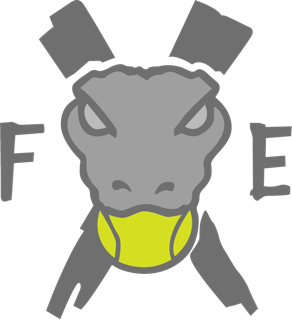
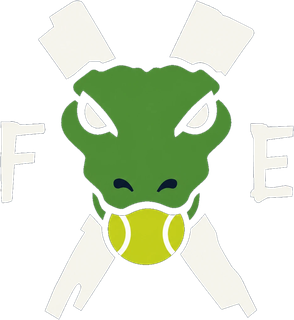
The gator in colour, everywhere, from one source file (decision 0032)
Tara asked for the gator in colour before testers get a build. Alex sent
the artwork; it is committed as docs/brand/gator-2026-09-29.webp and
scripts/make-logo-assets.py writes every copy from it: the app icon (no
alpha, as App Store Connect requires), the in-app mark for the launch
screen and header (navy lifted out by a flood fill from the border), and
two web files: the cut-out for navy pages and a rounded tile for the
light QR card, where cream racquets would vanish.

Checked on the simulator (header, app-switcher icon) and in the browser
(qr.html, app/index.html).

diff --git a/web/qr.html b/web/qr.html
@@ -40,7 +40,7 @@
 </head>
 <body>
   <div class="card">
-    <img class="mark" src="gator.png" alt="">
+    <img class="mark" src="gator-tile.png" alt="">
     <h1>FXE Tennis</h1>
     <img class="qr" src="app-qr.svg" alt="QR code for fxe-tennis-admin.vercel.app/app">
     <div class="url">fxe-tennis-admin.vercel.app/app</div>

diff --git a/scripts/make-logo-assets.py b/scripts/make-logo-assets.py
@@ -1,0 +1,82 @@
+#!/usr/bin/env python3
+"""make-logo-assets.py: every copy of the gator mark, from one source file.
+
+The source is the artwork Tara approved, as Alex sent it (2026-09-29, decision
+0032): the gator in colour on its own navy square. Four files come out of it,
+and nothing else in the repo should be edited by hand to change the logo:
+
+  AppIcon-1024.png   the square as is, RGB with no alpha (App Store Connect
+                     rejects an icon with an alpha channel, ITMS-90717)
+  gator-x.png        the mark with the navy lifted out, for navy surfaces in
+                     the app (launch screen, header)
+  web/gator.png      the same cut-out, smaller, for navy pages on the web
+  web/gator-tile.png the square with rounded corners, for light pages (the QR
+                     card), where the cream racquets would vanish on cream
+
+The cut-out is a flood fill from the border: only navy connected to the edge
+goes, so the dark outlines inside the gator (eyes, nostrils) stay. The outer
+outline goes with the background, which on a navy surface looks the same.
+
+  python3 scripts/make-logo-assets.py [source]
+"""
+import sys
+from collections import deque
+from pathlib import Path
+from PIL import Image, ImageDraw, ImageFilter
+
+ROOT = Path(__file__).resolve().parent.parent
+SRC = Path(sys.argv[1]) if len(sys.argv) > 1 else ROOT / "docs/brand/gator-2026-09-29.webp"
+ASSETS = ROOT / "FXETennis/Resources/Assets.xcassets"
+TOL = 60  # colour distance still counted as background navy
+
+im = Image.open(SRC).convert("RGB")
+w, h = im.size
+px = im.load()
+bg = px[5, 5]
+
+def near(c):
+    return sum((a - b) ** 2 for a, b in zip(c, bg)) <= TOL * TOL
+
+mask = Image.new("L", (w, h), 255)
+m = mask.load()
+seen = bytearray(w * h)
+q = deque()
+for x in range(w):
+    q.extend([(x, 0), (x, h - 1)])
+for y in range(h):
+    q.extend([(0, y), (w - 1, y)])
+while q:
+    x, y = q.popleft()
+    i = y * w + x
+    if seen[i]:
+        continue
+    seen[i] = 1
+    if not near(px[x, y]):
+        continue
+    m[x, y] = 0
+    for nx, ny in ((x + 1, y), (x - 1, y), (x, y + 1), (x, y - 1)):
+        if 0 <= nx < w and 0 <= ny < h and not seen[ny * w + nx]:
+            q.append((nx, ny))
+# Soften the cut by a pixel so the edge is not stair-stepped when scaled.
+mask = mask.filter(ImageFilter.GaussianBlur(0.8))
+
+cut = im.convert("RGBA")
+cut.putalpha(mask)
+cut = cut.crop(cut.getbbox())
+
+# 1. App icon.
+im.resize((1024, 1024), Image.LANCZOS).save(ASSETS / "AppIcon.appiconset/AppIcon-1024.png")
+# 2. In-app mark, about the old asset's size.
+cw, ch = cut.size
+s = 1067 / ch
+cut.resize((round(cw * s), 1067), Image.LANCZOS).save(ASSETS / "gator-x.imageset/gator-x.png")
+# 3. Web cut-out.
+s = 320 / ch
+cut.resize((round(cw * s), 320), Image.LANCZOS).save(ROOT / "web/gator.png")
+# 4. Web tile, rounded like an app icon.
+tile = im.resize((320, 320), Image.LANCZOS).convert("RGBA")
+r = Image.new("L", (320 * 4, 320 * 4), 0)
+ImageDraw.Draw(r).rounded_rectangle((0, 0, 320 * 4 - 1, 320 * 4 - 1), radius=72 * 4, fill=255)
+tile.putalpha(r.resize((320, 320), Image.LANCZOS))
+tile.save(ROOT / "web/gator-tile.png")
+print("wrote 4 files from", SRC.relative_to(ROOT) if SRC.is_relative_to(ROOT) else SRC)

diff --git a/docs/prompt-log/2026-09.md b/docs/prompt-log/2026-09.md
@@ -4487,3 +4487,64 @@ I do ask the gator is changed in color first :)
 
 ok anyway i havent read anything u gave me and ill prob do the stripe stuff later today, so go back to all my out standing to dos pls
 ~~~~
+
+### Claude replied · 11:41:10 EDT
+
+~~~~text
+Done with everything I could do without you. Build 6 went live on the database, and its PR is waiting on CI.
+
+**What I did since your last message**
+- **The pop-up waiver is now a full screen.** New players sign it before they see anything else. An automated test proves nothing of Home exists behind it: it failed on the old pop-up and passes now.
+- **"Couldn't save your signature":** no sign-in has reached the live database since 09-24, and every member there has signed. So you almost certainly hit it on the simulator, while I was wiping and rebuilding the local test database under you. It now says the real reason instead of that vague line.
+- **Foxcroft share:** Tara's number, set on the Money tab. It stays 10% until she types what's agreed (8, 7.5, anything), and only she can see it. The math is checked against numbers I worked out by hand.
+- **QR scan counting (Kat):** built. Tara sees "opened 12 times, 9 by scanning" beside the QR link. It stores only a date and a count, nothing about the person.
+- **Court sheet:** "Court 1" printed as "Court ı" in the fancy font. Fixed.
+- **UI tests that failed around 1 AM:** they depended on the time of night. Fixed, and they now pass during that window.
+- **Build 6 on the live database:** 60 of 60 migrations paired, six server functions deployed, live security check `156 targets, 0 open`. The PR ([Volee-Team/FXE#81](https://github.com/Volee-Team/FXE/pull/81)) merges once the last check reruns; it only failed because it ran before the database push. Then I tag it for John.
+- **New demo for Kat and Tara:** https://claude.ai/artifact/9i4Wmg1Eb1wsrBybuiyP3E (private until you share it from its Share menu, so share it before sending). It covers the waiver screen, the pros' Today screen, the calendar, Copy to next week, the court sheet, Foxcroft %, saved messages, and Kat's three answers.
+
+**Your questions**
+1. **Tara's answers:** nothing new was saved on her review page after round four, and round four is all recorded (decision 0024). If she answered anything else by text, paste it here and I'll check it against what's built. Her Foxcroft answer became question 101.
+2. **Her screenshot feedback:** it goes to whoever uploaded the build, so it's in John's App Store Connect: Apps → FXE Tennis → TestFlight → Feedback. Ask John to forward it, or to add you to his team with the App Manager role.
+3. **Kat's "0/8":** that screenshot is Tara's Manage tab, which only she sees. Players never get a count of anything. The database refuses to send one, and a test checks it on every build.
+4. **Downloads by date:** App Store Connect → Analytics shows daily downloads once the app is on the App Store. TestFlight only shows installs per tester.
+5. **Photo and gator color:** I've never received the photo, and I can't read Tara's texts. AirDrop it to this Mac (Downloads) and tell me, and tell me what color she wants for the gator.
+6. **Simulator crashing:** the helpers each made their own simulator, since cloning the running one was blocked. That, plus five databases and several builds at once, strained the Mac. The extra simulators are deleted and only the main one is left. I didn't find a cause for the "can't run on this version of macOS" message: your Mac, Xcode and the iOS runtime are all versions that go together. If it comes back, send a screenshot.
+7. **Testers:** after John uploads build 6, submit it for external TestFlight review. Once Apple approves (usually about a day), copy the public link and send it to me. I'll point the QR at it, and that's the link you send your testers.
+
+**Your to-do list, in order**
+1. **Stripe** (the blocker): [docs/for-alex.md](docs/for-alex.md) §1 and §2b.
+2. **John:** archive build 6. The message to send him is in §4; I'll tell you when the tag exists.
+3. **Photo and gator color** from Tara (item 5 above).
+4. **App Review account,** then external TestFlight for build 6, then send me the public link (item 7).
+5. **Push key** from John (§3).
+6. **One real "Forgot password" test.**
+7. **Tara's review page, round five:** I deploy it with build 6, then you send her the link.
+8. **Kat:** her three style questions, plus whether she's happy with the solid page titles.
+9. **Tick the new words** in [docs/copy-review.md](docs/copy-review.md), and the "What to Test" note for testers in §4.
+~~~~
+
+---
+
+## 2026-09-29 12:39:43 EDT · `build-6`
+
+~~~~text
+tf are these going for lol - also yeah i want everything to be green and checked 1000% before being finalizin right?
+also heres the updates picture to i guess change every where
+i sent the demo to them
+we'll send out update later tn when everythings finalized
+
+anyway in class still keep next steps in mind for later:
+
+<pasted_content id="339c">
+1. Stripe (the blocker): docs/for-alex.md §1 and §2b.
+2. John: archive build 6. The message to send him is in §4; I'll tell you when the tag exists.
+3. Photo and gator color from Tara (item 5 above).
+4. App Review account, then external TestFlight for build 6, then send me the public link (item 7).
+5. Push key from John (§3).
+6. One real "Forgot password" test.
+7. Tara's review page, round five: I deploy it with build 6, then you send her the link.
+8. Kat: her three style questions, plus whether she's happy with the solid page titles.
+9. Tick the new words in docs/copy-review.md, and the "What to Test" note for testers in §4.
+</pasted_content id="339c">
+~~~~

diff --git a/docs/decisions/0032-gator-in-colour.md b/docs/decisions/0032-gator-in-colour.md
@@ -1,0 +1,40 @@
+# 0032: The gator in colour
+
+**Date:** 2026-09-29 · **Status:** Active · **Source:** Tara, relayed by Alex
+2026-09-29: *"I do ask the gator is changed in color first"* (before testers
+get a build), and the artwork itself, sent by Alex the same day.
+
+## What we chose
+
+1. The mark is the same drawing as before (decision 22: gator, crossed
+   racquets, the ball, F and E), now in colour: a green gator, cream racquets
+   and letters, on navy. The file as Alex sent it is the source of truth and
+   lives in the repo: `docs/brand/gator-2026-09-29.webp`.
+2. Every copy of the mark is generated from that one file by
+   `scripts/make-logo-assets.py`, never edited by hand: the app icon, the
+   in-app mark (launch screen and header), and two web files. Changing the
+   logo again is: replace the source, run the script, look at it.
+3. On navy the mark is a cut-out (the navy lifted out by a flood fill from
+   the border, so the dark lines inside the gator stay). On light pages
+   (the printable QR card) it is the navy square with rounded corners,
+   because cream racquets on a cream card disappear.
+
+## Rejected
+
+- **Recolouring the old grey PNG in code or by hand**: two drawings that
+  must be kept in step, and the next change would be a third.
+- **The cut-out on the light QR card**: the racquets and letters are cream
+  and vanish.
+
+## How we would know we were wrong
+
+Tara or Kat sees the icon on a phone and it reads muddy at small size (the
+home screen icon is about 60 points). The fix is a simplified icon source,
+run through the same script.
+
+## Verified
+
+Built and run on the iPhone 17 Pro simulator on 2026-09-29: the header mark
+and the app-switcher icon are the green gator; `web/qr.html` and
+`web/app/index.html` checked in the browser. The icon is 1024 by 1024 with
+no alpha channel (`sips -g hasAlpha`: no), which App Store Connect requires.

diff --git a/docs/launch-checklist.md b/docs/launch-checklist.md
@@ -150,7 +150,7 @@ Missing kinds of testing, in the order they matter:
 | G2 | Tara's answers through the review page, **round four**: only what is new since her 2026-09-22 answers (15 words, questions 69 to 79, three tasks). Her 09-22 answers were read on 2026-09-27 (decision 0016); `review-watch.yml` now opens an issue whenever she saves | [Alex] sends, [Tara] answers | **OPEN**: send the link once round four is deployed (`docs/for-alex.md` §5). Question 75 (how members hear about the app) blocks launch |
 | G3 | Kat's calls: the tab bar colour, the green text contrast, the green line under the header; and her earlier "tag spec" line (release tags, answered by C10, or analytics tags, not built; `docs/kat-due-diligence.md`) | [Kat] | **OPEN** (`docs/for-alex.md` §7) |
 | G4 | Alex's ticks in `docs/copy-review.md` (sections G to J and the older open rows) | [Alex] | **OPEN** |
-| G5 | Tara's logo file and the original court photo | [Tara] | **OPEN**: Alex asks her by text (was question 64) |
+| G5 | Tara's logo file and the original court photo | [Tara] | **OPEN**: the logo is in (the gator in colour, decision 0032, 2026-09-29); the court photo is still to come |
 | G6 | GitHub: require the hosted smoke check and stop admins bypassing `main`'s protection. Dependabot alerts are already on (verified 2026-09-27) | [Alex] | **OPEN** (`docs/for-alex.md` §8) |
 
 ## H. The MVP audit of 2026-09-27

diff --git a/CLAUDE.md b/CLAUDE.md
@@ -426,7 +426,7 @@ What replaces it is app behaviour, and it is a real requirement, not a nicety:
 | 19 | **Adults only, confirmed again.** Juniors return in the fall. The wireframe's child-profile screen is not v1 |
 | 20 | **Clinic messaging.** Her ask was three audiences (You're In!, Player Pool, Both; `docs/decisions/0005`). **Built with five**, matching `message_audience`: Everyone, You're In!, Player Pool, Response Needed, Unpaid, on web and iOS; Unpaid is hidden while `zelle_allowed` is false. Decision 0005 records the three; the extra two are the enum's, kept (hard rule 4) |
 | 21 | **Three tabs, no Community tab.** Home, Clinics, Profile for players. An admin account also gets a Manage tab (Alex, 2026-08-15; `MainTabView.swift`) |
-| 22 | **The gator-with-crossed-racquets mark**, not the tennis-ball one. Gets redrawn in whichever palette she picks |
+| 22 | **The gator-with-crossed-racquets mark**, not the tennis-ball one. Gets redrawn in whichever palette she picks. **In colour since 2026-09-29 (decision 0032)**: one source file, every copy made by `scripts/make-logo-assets.py` |
 | 23 | **Palette: racquet club / country club.** Her `#6dbe45` green kept but restrained; navy warms; cream ground. Three options sent for her to choose |
 
 **On the wireframe mockups:** treat them as a *style guide*, not a spec. Alex,

diff --git a/docs/decisions/README.md b/docs/decisions/README.md
@@ -40,6 +40,7 @@ The history of what we believed is part of the record.
 | [0029](0029-calendar-feed.md) | A player's clinics as a subscribed calendar: Subscribe in Calendar on Profile, You're In! and Response Needed only, nothing about where or which court, the token as the credential, removed at deletion | 2026-09-28 | Active |
 | [0030](0030-saved-messages.md) | Tara's saved messages: her own text kept and offered back in the Message dialog and Message Players, never written by the app; kept once by a unique index over live rows; Remove archives; admin only, pros refused too | 2026-09-28 | Active |
 | [0031](0031-app-link-visits.md) | Opens of the app link counted per day as QR or link, nothing about the person; Tara sees the totals by the QR link; downloads by date are Apple's (App Store Connect) | 2026-09-29 | Active |
+| [0032](0032-gator-in-colour.md) | The gator mark in colour (green gator, cream racquets) before testers, as Tara asked; every copy generated from one source file by `scripts/make-logo-assets.py` | 2026-09-29 | Active |
 | [0011](0011-no-email-verification-v1.md) | No email verification in v1; hosted "Confirm email" is OFF by hand, and every new project needs the same flip | 2026-08-16 | Active |
 
 Tara's own numbered decisions (1–23, calls of 2026-08-02 and 2026-08-12) are

diff --git a/docs/architecture.md b/docs/architecture.md
@@ -600,7 +600,7 @@ on the cancellation rule is open except her policy block's wording (Q56).
 `review.html`, `privacy.html`, the member QR code's pages (`web/app/index.html`,
 the one link the code says, forwarding to the install link in `web/app/target.js`;
 `web/qr.html`, Tara's printable card; `web/app-qr.svg` and `web/app-qr.png`, drawn and
-decode-checked by `scripts/make-qr.swift`; `web/gator.png`, the mark), `web/sheet.html`
+decode-checked by `scripts/make-qr.swift`; `web/gator.png`, the mark on navy, and `web/gator-tile.png`, on light pages, both written with the app icon and the in-app mark by `scripts/make-logo-assets.py` from `docs/brand/gator-2026-09-29.webp`, decision 0032), `web/sheet.html`
 (a clinic's court sheet to print, decision 0027 §3), `config.js` (which picks local vs hosted by hostname), `tokens.css`,
 three small modules the admin page imports (`week.js`: the service week and which
 clinics This week lists; `read.js`: reads that page past PostgREST's 1000-row
